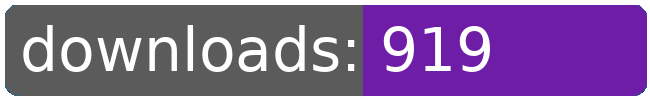
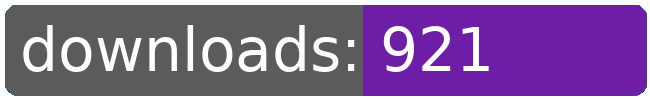
dl log written

Changed region(s): [[0.6462, 0.24, 0.7692, 0.72], [0.6462, 0.54, 0.6769, 0.72]]

diff --git a/README.md b/README.md
@@ -65,8 +65,8 @@
 		<td>802</td>
 		<td>832</td>
 		<td>871</td>
-		<td>919</td>
-		<td>+ 48</td>
+		<td>921</td>
+		<td>+ 50</td>
 	</tr>
 	<tr>
 		<td>jumpdrive.extended</td>
@@ -186,8 +186,8 @@
 		<td></td>
 		<td></td>
 		<td></td>
-		<td>10980</td>
-		<td>456</td>
+		<td>10982</td>
+		<td>458</td>
 	</tr>
 </table>
 </sub></sup>
@@ -234,8 +234,8 @@
 		<td>802</td>
 		<td>832</td>
 		<td>871</td>
-		<td>919</td>
-		<td>+ 48</td>
+		<td>921</td>
+		<td>+ 50</td>
 	</tr>
 	<tr>
 		<td>1requiredcrew</td>
@@ -377,8 +377,8 @@
 		<td></td>
 		<td></td>
 		<td></td>
-		<td>10980</td>
-		<td>456</td>
+		<td>10982</td>
+		<td>458</td>
 	</tr>
 </table>
 </sub></sup>
